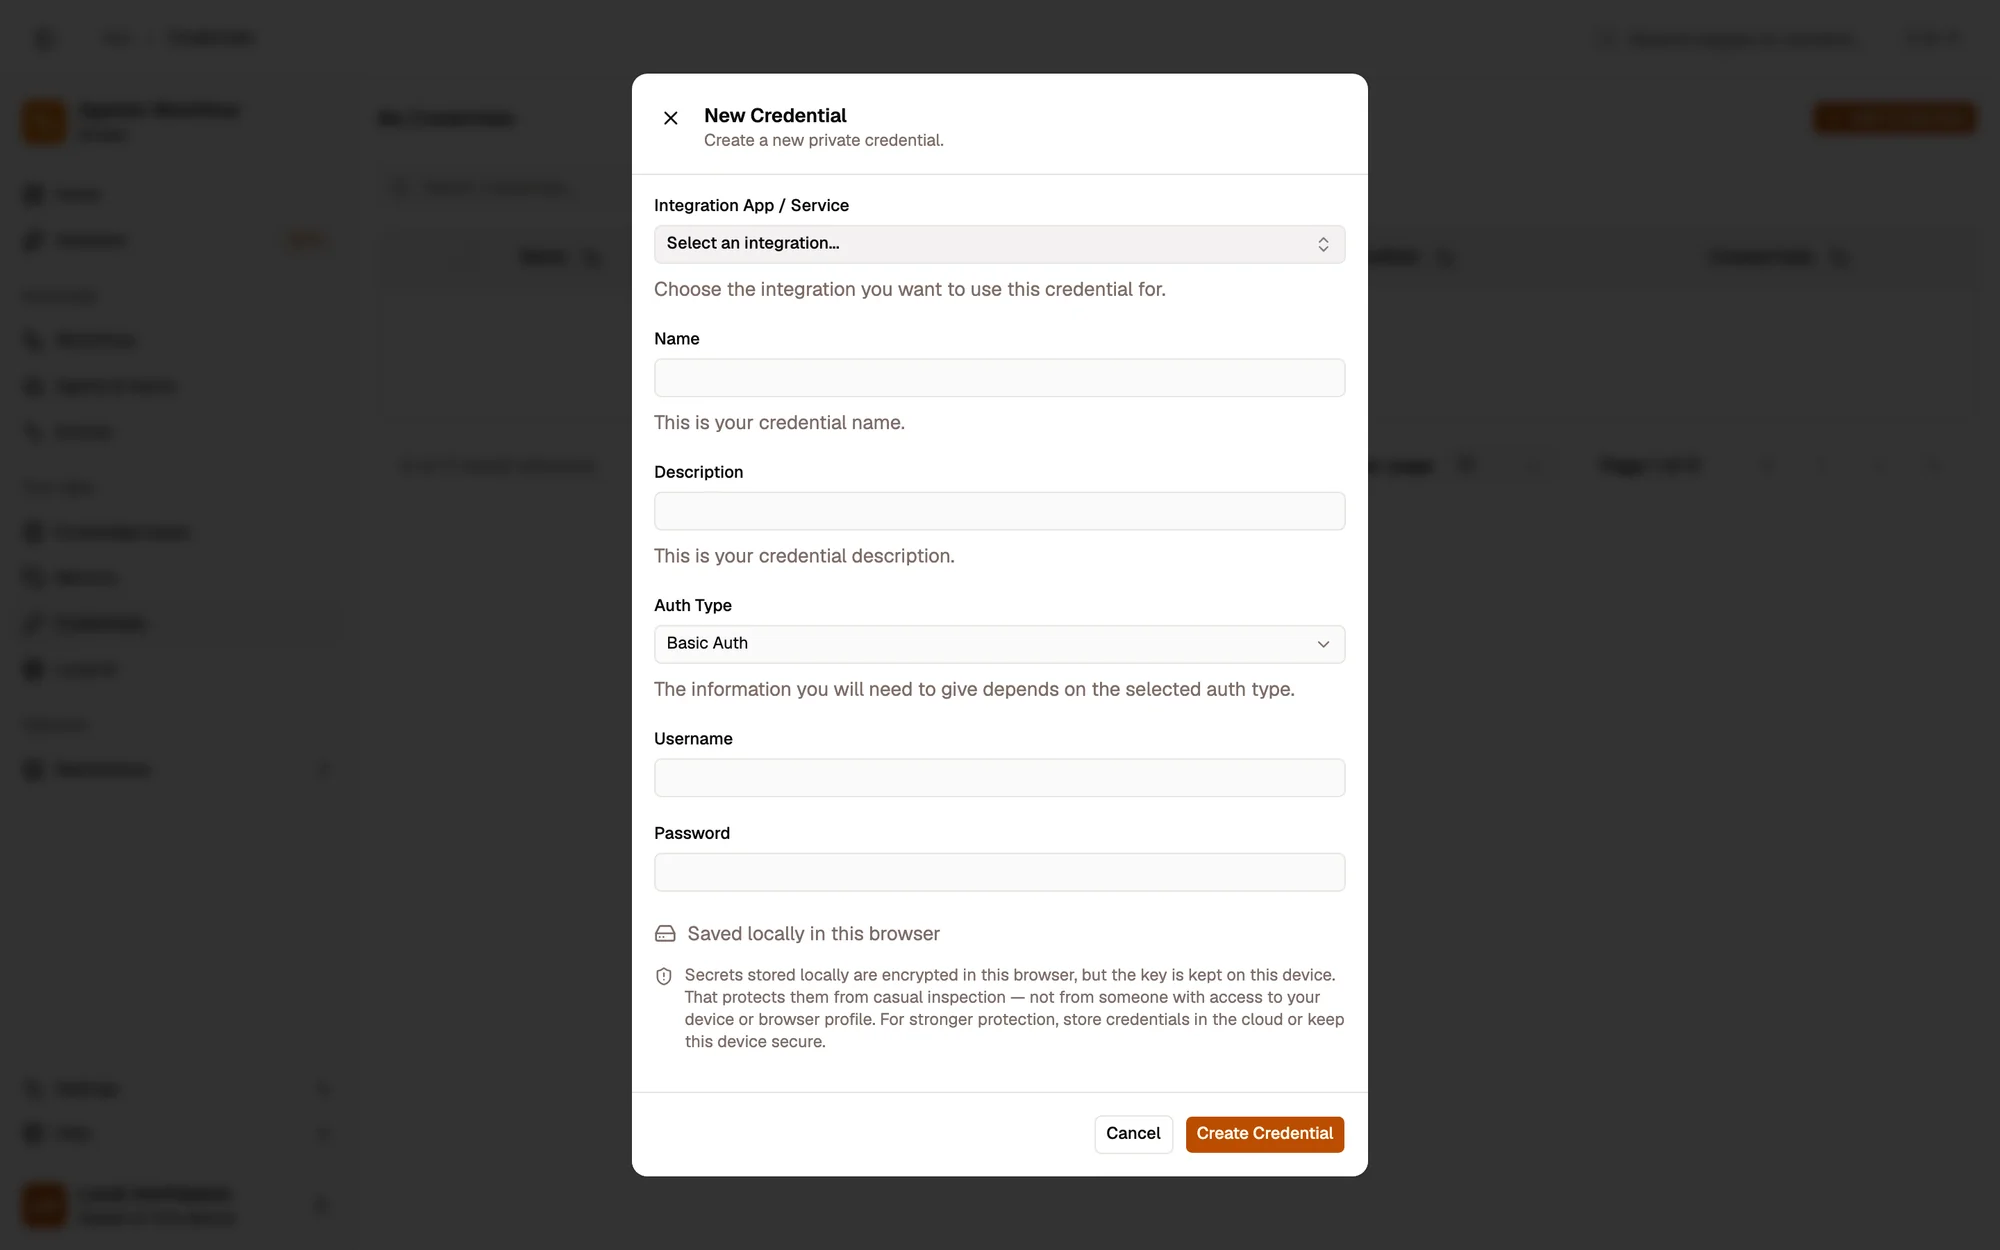
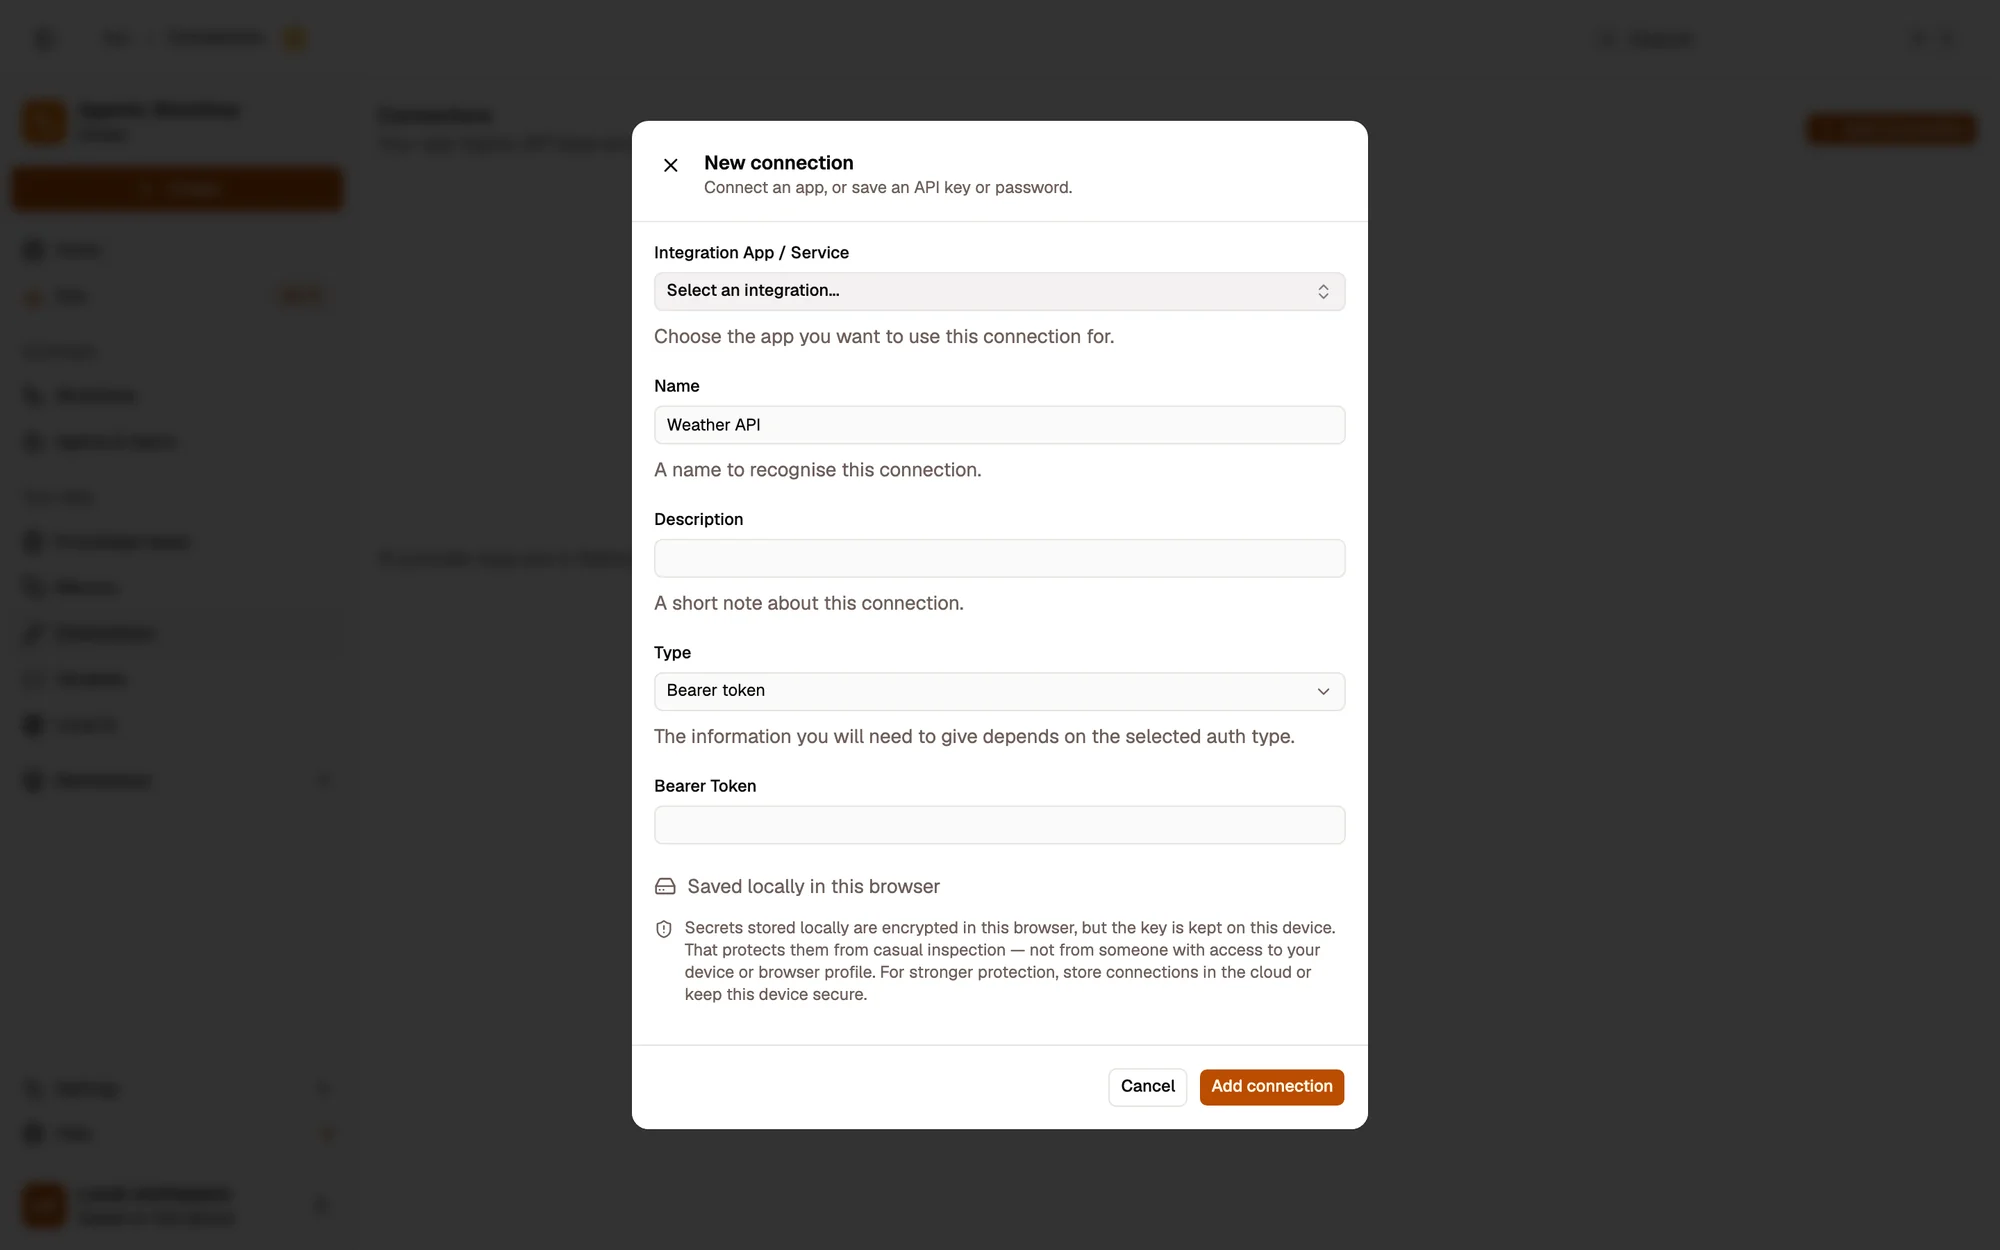
docs: connections (test, Connected as, allowed sites, API-key types, connect from a step) and AI steps for 1.0
Connections: Add/Edit connection pages, Save and test, Allowed sites,
API key types, delete lists the workflows that use it; re-captured the New
connection form. AI: Chat Trigger reply channel, Show in Aria and
attachments; Guardrails v2; Tools Agent fallback, structured answers and
approval policies; Workflow Tool typed arguments and Ask before running.
GitHub and Google Sheets notes.

diff --git a/scripts/capture/shots/connections.ts b/scripts/capture/shots/connections.ts
@@ -107,22 +107,27 @@ export const shots: ShotDef[] = [
 	{
 		name: 'credentials-new',
 		page: 'app/connections/create',
-		route: '#/app/credentials',
-		alt: 'The New Credential dialog over the Credentials page: an Integration App / Service picker, Name and Description fields, an Auth Type menu set to Basic Auth with Username and Password fields, a note that the secret is saved locally and encrypted in this browser, and the Create Credential button.',
-		hotspots: [
-			{ id: 'app', label: 'Pick the app or service', locate: (p) => p.getByRole('dialog').getByRole('combobox').first() },
-			{ id: 'name', label: 'Name it so you can find it in nodes', locate: (p) => p.getByRole('dialog').getByRole('textbox', { name: 'Name', exact: true }) },
-			{ id: 'auth-type', label: 'Auth type decides which fields you fill', locate: (p) => p.getByRole('dialog').getByRole('button', { name: 'Auth Type' }) },
-			{ id: 'storage', label: 'Where the secret is stored', locate: (p) => p.getByRole('dialog').getByText('Saved locally in this browser') }
-		],
+		route: '#/app/credentials?new=1',
+		alt: 'The New connection form over the Connections page: the Integration App / Service picker, Name (Weather API) and Description, Type set to Bearer token with its Bearer Token field, a note that it is saved locally in this browser, and the Cancel and Add connection buttons.',
 		spots: [
-			{ id: 'fields', label: 'The fields of the chosen auth type (here Username and Password)', locator: (p) => p.getByRole('dialog').getByRole('textbox', { name: 'Username' }) },
-			{ id: 'create', label: 'Create Credential', locator: (p) => p.getByRole('dialog').getByRole('button', { name: 'Create Credential' }) }
+			{ id: 'app', label: 'Pick the app or service', locator: (p) => p.getByRole('dialog').getByRole('combobox').first() },
+			{ id: 'name', label: 'Name it so you can find it in steps', locator: (p) => p.getByRole('dialog').getByRole('textbox', { name: 'Name', exact: true }) },
+			{ id: 'auth-type', label: 'Type: how the service signs in', locator: (p) => p.getByRole('dialog').getByRole('button', { name: 'Type' }) },
+			{ id: 'fields', label: 'The fields of that type (here the token)', locator: (p) => p.getByRole('dialog').getByRole('textbox', { name: /Bearer Token/i }) },
+			{ id: 'storage', label: 'Where it is saved', locator: (p) => p.getByRole('dialog').getByText('Saved locally in this browser') },
+			{ id: 'create', label: 'Add connection', locator: (p) => p.getByRole('dialog').getByRole('button', { name: /^(Add connection|Save and test|Save connection)$/ }).last() }
 		],
 		prepare: async (s) => {
+			await s.page.goto('about:blank');
 			await s.go('#/app/credentials');
-			await s.page.getByRole('button', { name: 'Add Credential' }).first().click({ timeout: T });
-			await s.page.getByRole('dialog').getByText('New Credential').first().waitFor({ timeout: T });
+			await s.page.getByRole('button', { name: /Add connection/ }).first().click({ timeout: T });
+			const d = s.page.getByRole('dialog');
+			await d.getByRole('textbox', { name: 'Name', exact: true }).click({ timeout: T });
+			await d.getByRole('textbox', { name: 'Name', exact: true }).fill('Weather API');
+			await d.getByRole('button', { name: 'Type' }).click({ timeout: T });
+			await s.page.getByRole('option', { name: 'Bearer token' }).first().click({ timeout: T });
+			await s.page.getByRole('dialog').getByRole('textbox', { name: /Bearer Token/i }).waitFor({ timeout: T });
+			await s.page.waitForTimeout(600);
 		}
 	},
 	{
